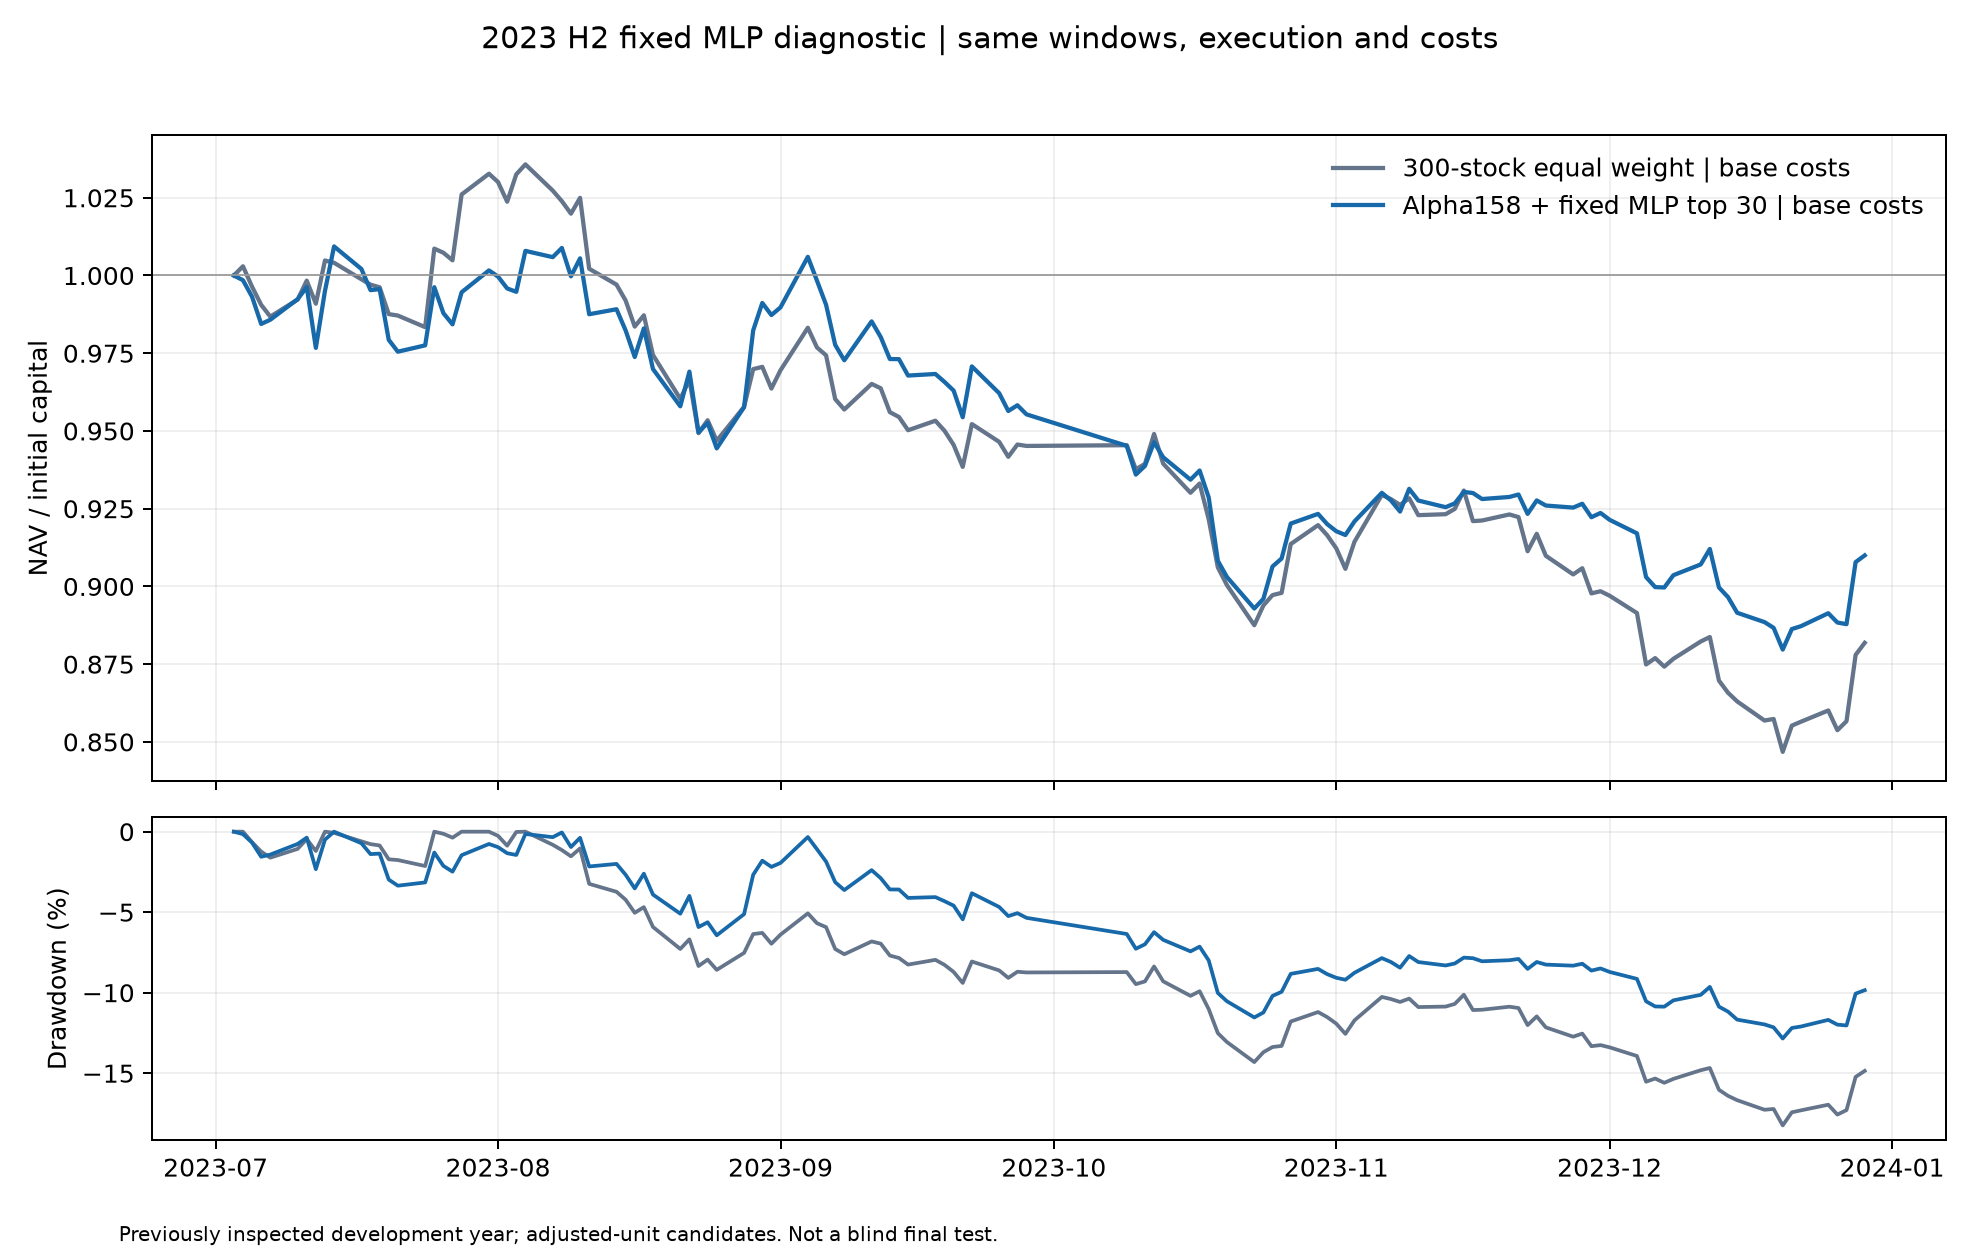
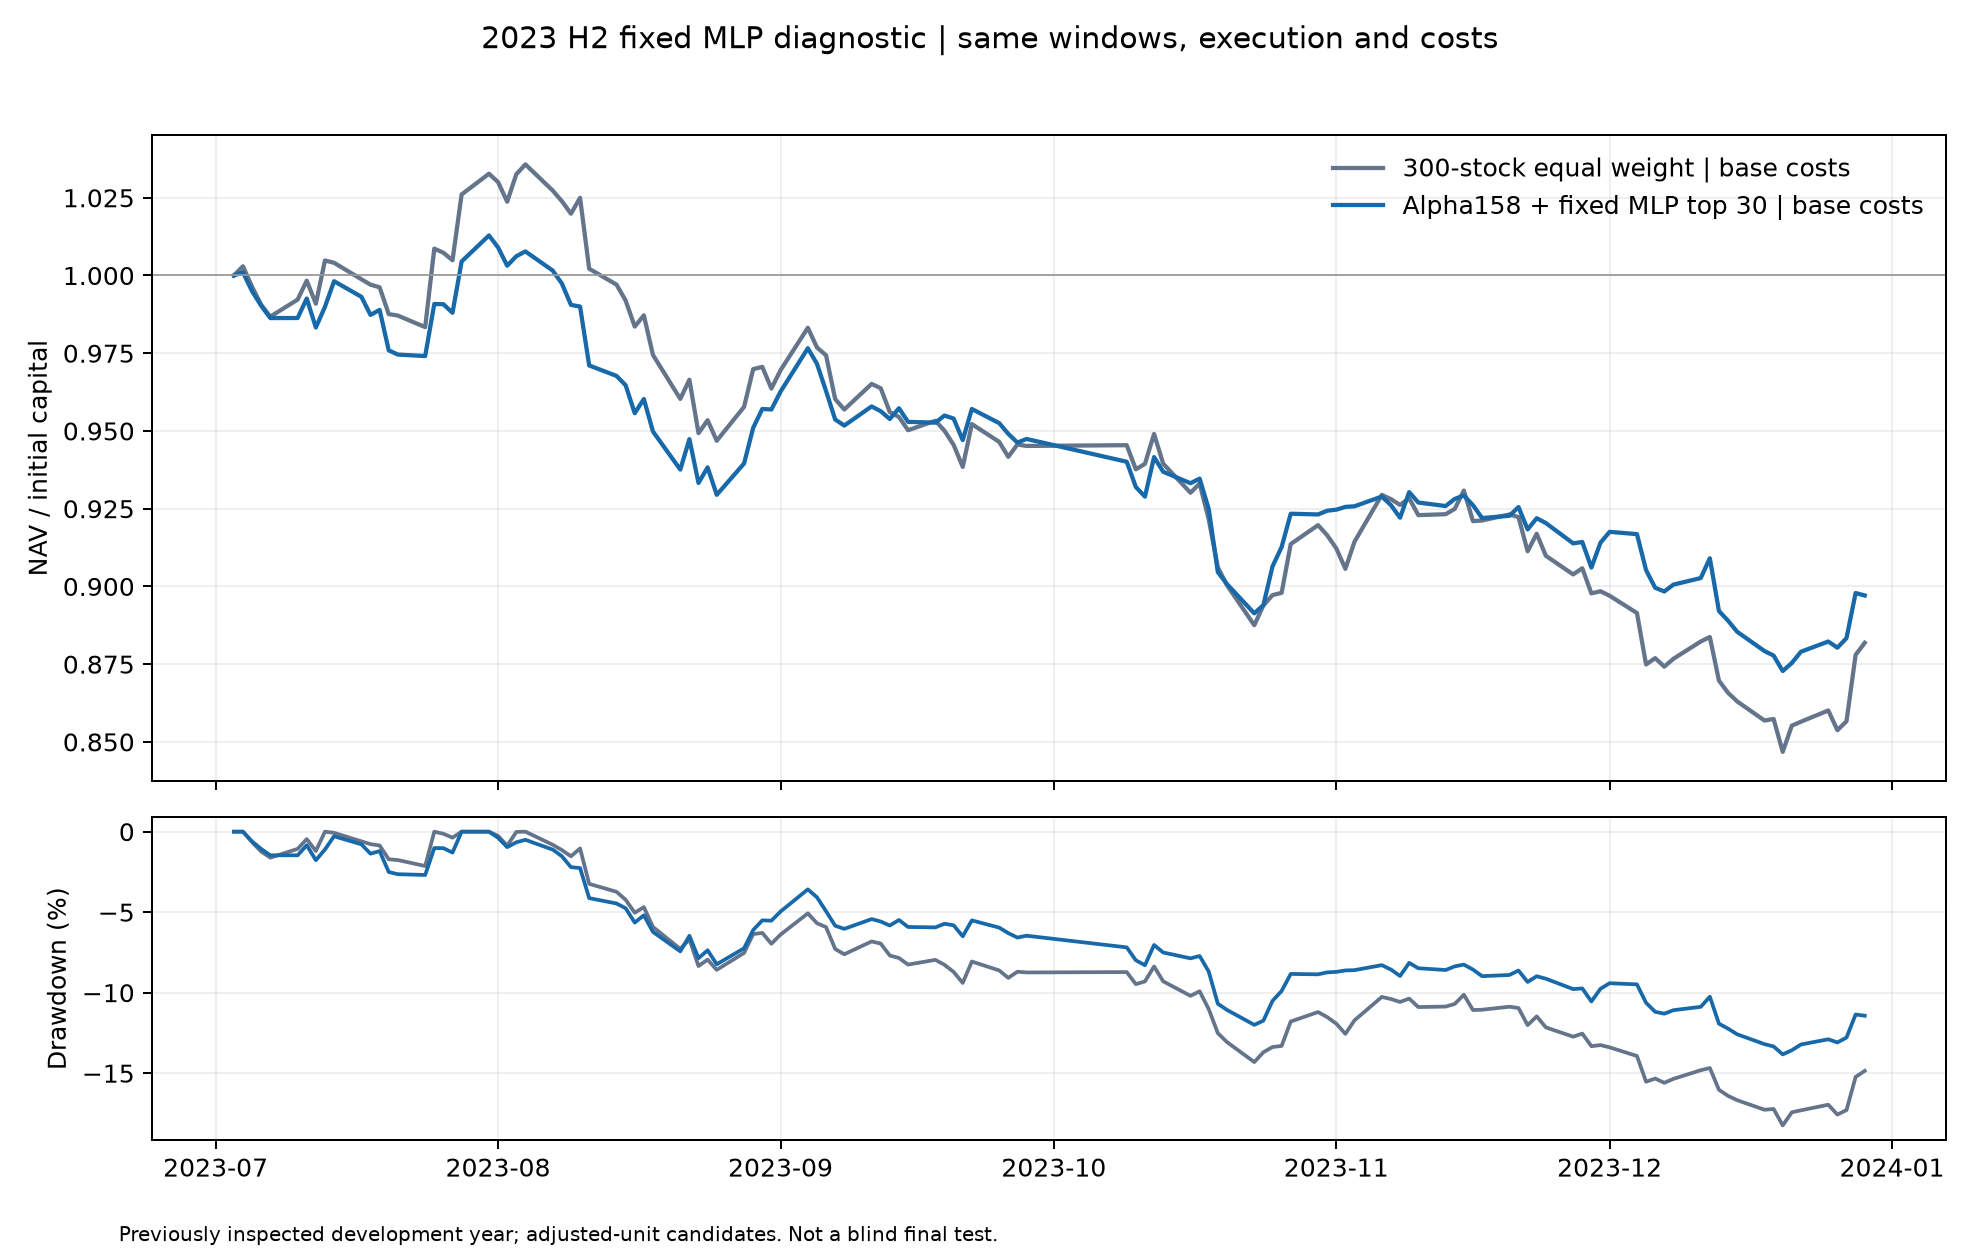
Correct MLP batch training and publish final diagnostic result

diff --git a/README.md b/README.md
@@ -9,7 +9,7 @@
 top30 常规成本收益 -6.30%，同期等权 -11.81%，改善 5.52 个百分点但仍亏损；零成本也为
 -3.67%。两个训练窗口、成熟标签、模型输出和三档成本净值均已独立对账，不能视为最终盲测。
 
-固定 [Alpha158 + MLP 诊断](docs/MLP_ALPHA158_2023_DIAGNOSTIC.md) 常规成本收益 -9.00%，
+固定 [Alpha158 + MLP 诊断](docs/MLP_ALPHA158_2023_DIAGNOSTIC.md) 常规成本收益 -10.29%，
 弱于 LightGBM 的 -6.30%；MLP 也保留为负面基线，未进入实盘或最终模型候选。
 
 A 股日频研究工程。已验证本地 / Linux 环境、数据契约、CPU / 单卡 GPU smoke 和真实原始样本读取；
